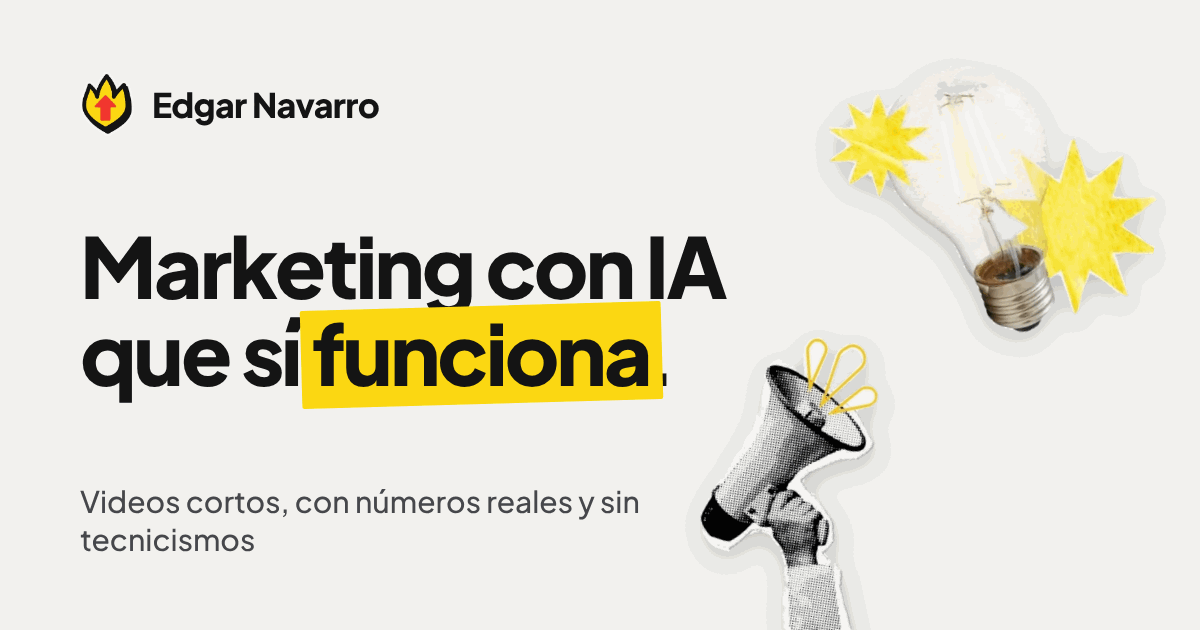
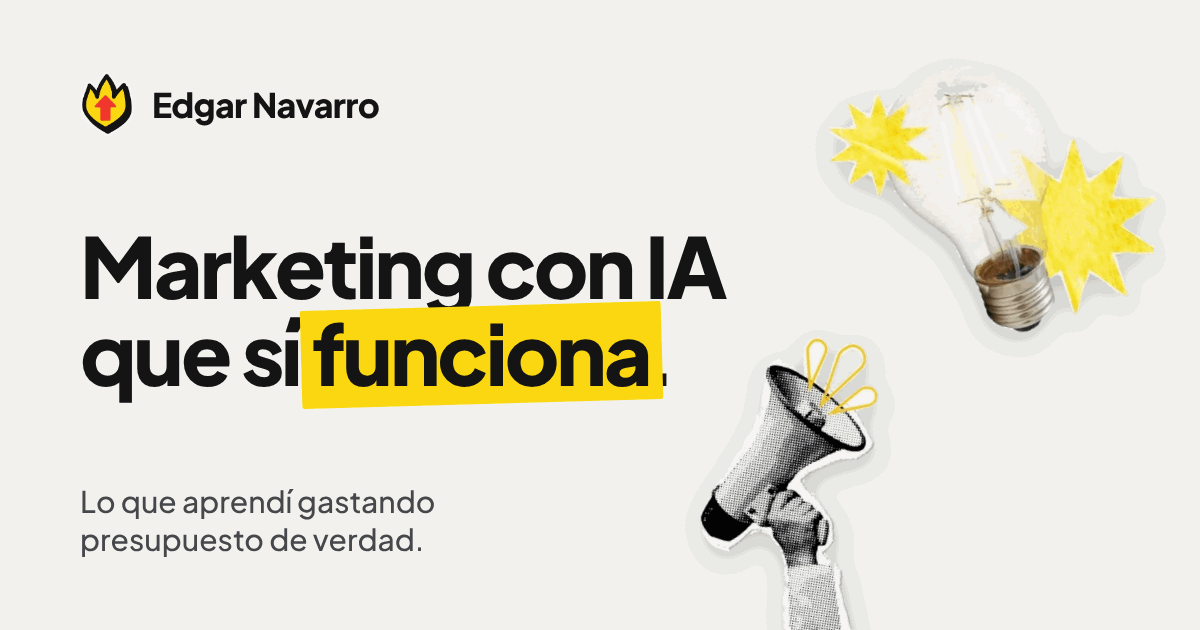
Añade el lema "Lo que aprendí gastando presupuesto de verdad."
- En el pie de página, bajo el logo.
- En la imagen para redes, en lugar del subtítulo anterior.

Claude-Session: https://claude.ai/code/session_01KaRXv1b2gyaM7JHWDzqRp2

Changed region(s): [[0.0617, 0.7841, 0.5242, 0.8143], [0.0617, 0.8444, 0.37, 0.8746]]

diff --git a/scripts/og.html b/scripts/og.html
@@ -23,7 +23,7 @@
   .hl { position: relative; z-index: 0; white-space: nowrap; }
   .hl::before { content: ''; position: absolute; z-index: -1; inset: 0.08em -0.14em 0.02em -0.12em; background: #fcd812; transform: rotate(-1.6deg); border-radius: 2px; }
   .dot { margin-left: -0.08em; }
-  .sub { font-size: 30px; font-weight: 500; color: #45474d; max-width: 600px; }
+  .sub { font-size: 30px; font-weight: 500; color: #45474d; max-width: 600px; text-wrap: balance; }
   .piece { position: absolute; filter: drop-shadow(0 8px 12px rgba(20, 20, 20, 0.2)); }
   .bulb { right: 40px; top: 70px; width: 340px; transform: rotate(9deg); }
   .mega { right: 300px; bottom: -40px; width: 200px; transform: rotate(-12deg); }
@@ -34,6 +34,6 @@
   <img class="piece mega" src="../public/collage/megafono.webp" alt="" />
   <div class="brand"><img class="mark" src="../public/brand/llama.webp" alt="" />Edgar Navarro</div>
   <h1>Marketing con IA que sí <span class="hl">funciona</span><span class="dot">.</span></h1>
-  <p class="sub">Videos cortos, con números reales y sin tecnicismos</p>
+  <p class="sub">Lo que aprendí gastando presupuesto de verdad.</p>
 </body>
 </html>

diff --git a/src/data/site.ts b/src/data/site.ts
@@ -36,6 +36,7 @@ export const site = {
   headline: 'Marketing con IA que sí funciona.',
   headlineHighlight: 'funciona', // palabra del titular con tira amarilla de collage
   greeting: 'Hola, soy Edgar Navarro',
+  motto: 'Lo que aprendí gastando presupuesto de verdad.', // lema del logo (pie de página e imagen para redes)
   intro:
     'Llevo más de 7 años haciendo campañas en Meta y Google. Ahora te enseño a usar la IA en las tuyas, con ejemplos reales y sin tecnicismos.',
 

diff --git a/CLAUDE.md b/CLAUDE.md
@@ -88,6 +88,7 @@ sin `nombres_con_guiones`, sin nombres de archivo, sin jerga como CPA, LLM o "pa
   saludo del inicio (hasta que haya foto), en el favicon (`favicon.png`, `apple-touch-icon.png`)
   y en la imagen para redes. Originales en `assets-src/logo/` (horizontal claro/oscuro, con y sin
   el lema "Lo que aprendí gastando presupuesto de verdad.", icono cuadrado).
+  El lema (`site.motto` en `site.ts`) va en el pie de página, bajo el logo, y en la imagen para redes.
 - **Ilustraciones chibi de Edgar: probadas y descartadas** (nov. 2026). Se colocaron en el
   encabezado, el saludo, "Sobre mí", la newsletter, la 404 y la imagen para redes, y a Edgar no
   le gustó; se quitaron todas. Los archivos siguen en el historial de git (commit `71cb0eb`,
